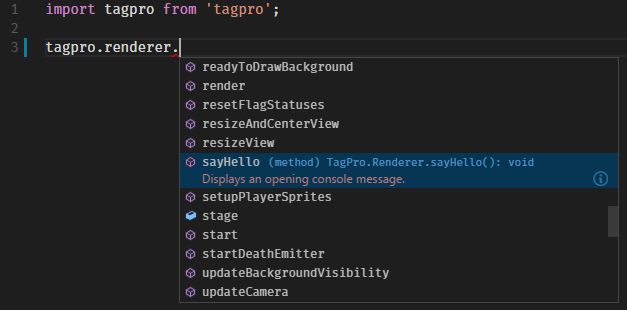
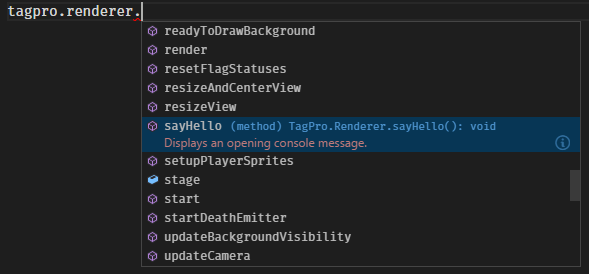
adding more ways to export the tagpro object.

Changed region(s): [[0.0, 0.0, 1.0, 0.9927], [0.9474, 0.7299, 1.0, 0.7591]]

diff --git a/tagpro.d.ts b/tagpro.d.ts
@@ -1,7 +1,22 @@
+//
+// Declared as a module, e.g. `import tagpro from 'tagpro';`
+//
 declare module 'tagpro' {
 	var tagpro: TagPro.TagProStatic;
 	export default tagpro;
 }
+
+//
+// Declared as a variable on window, i.e. `window.tagpro`
+//
+declare interface Window {
+	tagpro: TagPro.TagProStatic;
+}
+
+//
+// Declared as a global variable, i.e. just `tagpro`.
+//
+declare var tagpro: TagPro.TagProStatic;
 
 declare namespace TagPro {
 	interface TagProStatic {

diff --git a/README.md b/README.md
@@ -9,9 +9,14 @@ typings install --save --global github:keratagpro/typed-tagpro
 Then use an editor that supports TypeScript definition files, like [Visual Studio Code](https://code.visualstudio.com/).
 
 ```js
-import tagpro from 'tagpro'; // or: const tagpro = require('tagpro');
-
 tagpro.<IntelliSense happens>
 ```
 
 ![Screenshot](example.png)
+
+## NOTES
+
+The definition file exports the tagpro object in three different ways:
+1. As a module, so you can import it using e.g. `import tagpro from 'tagpro';` or `const tagpro = require('tagpro');`.
+2. As a variable on window (`window.tagpro`).
+3. As a global variable (`tagpro`).
